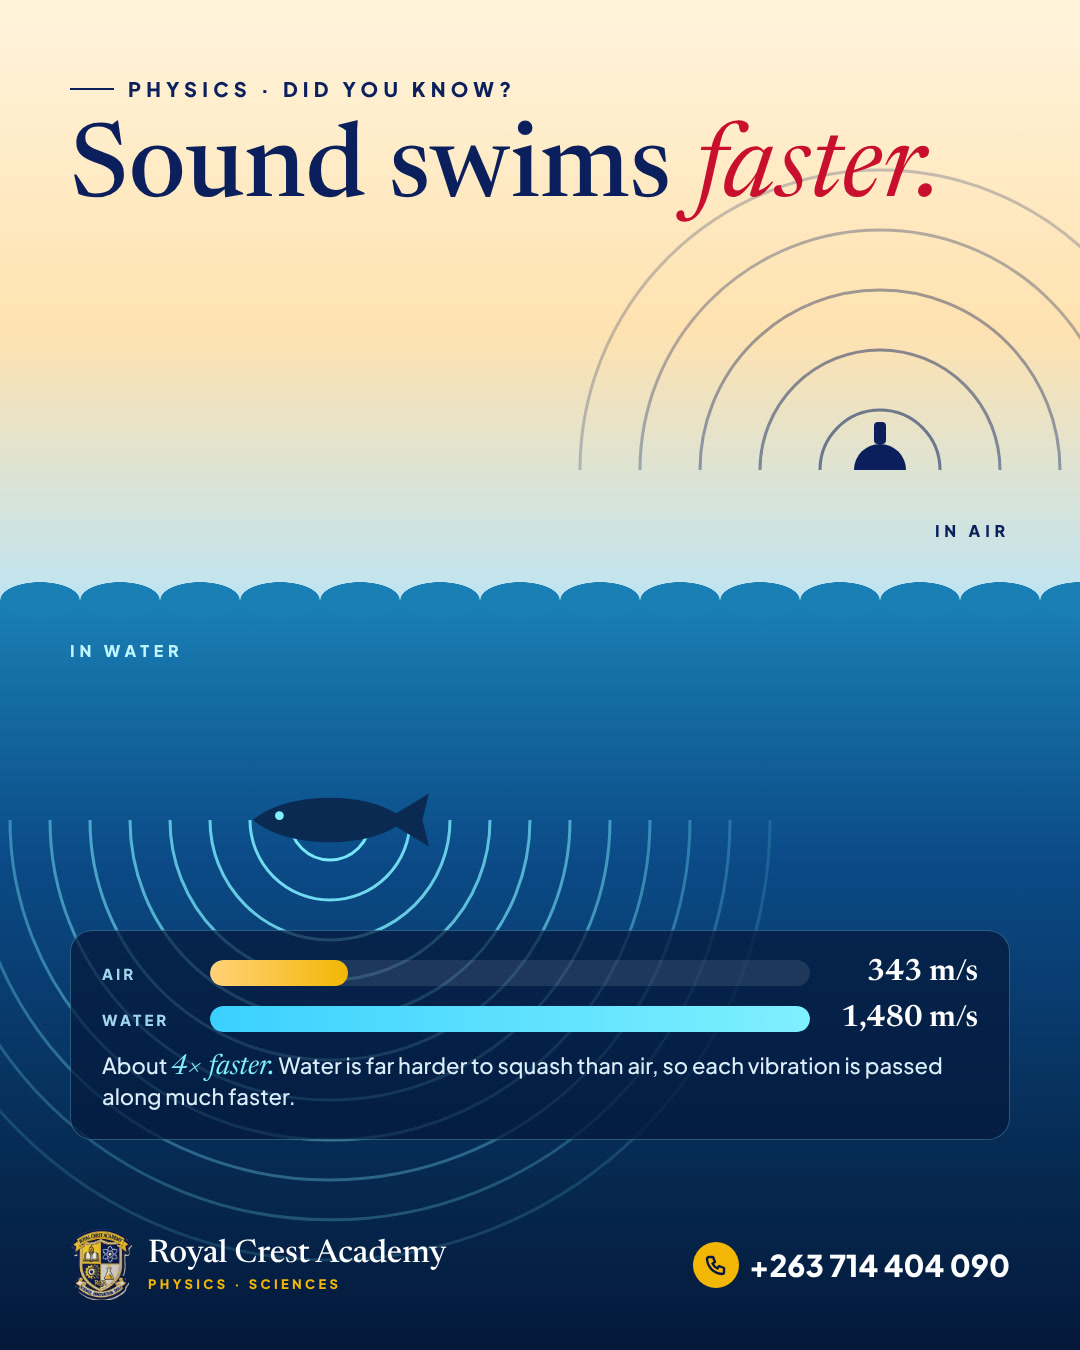
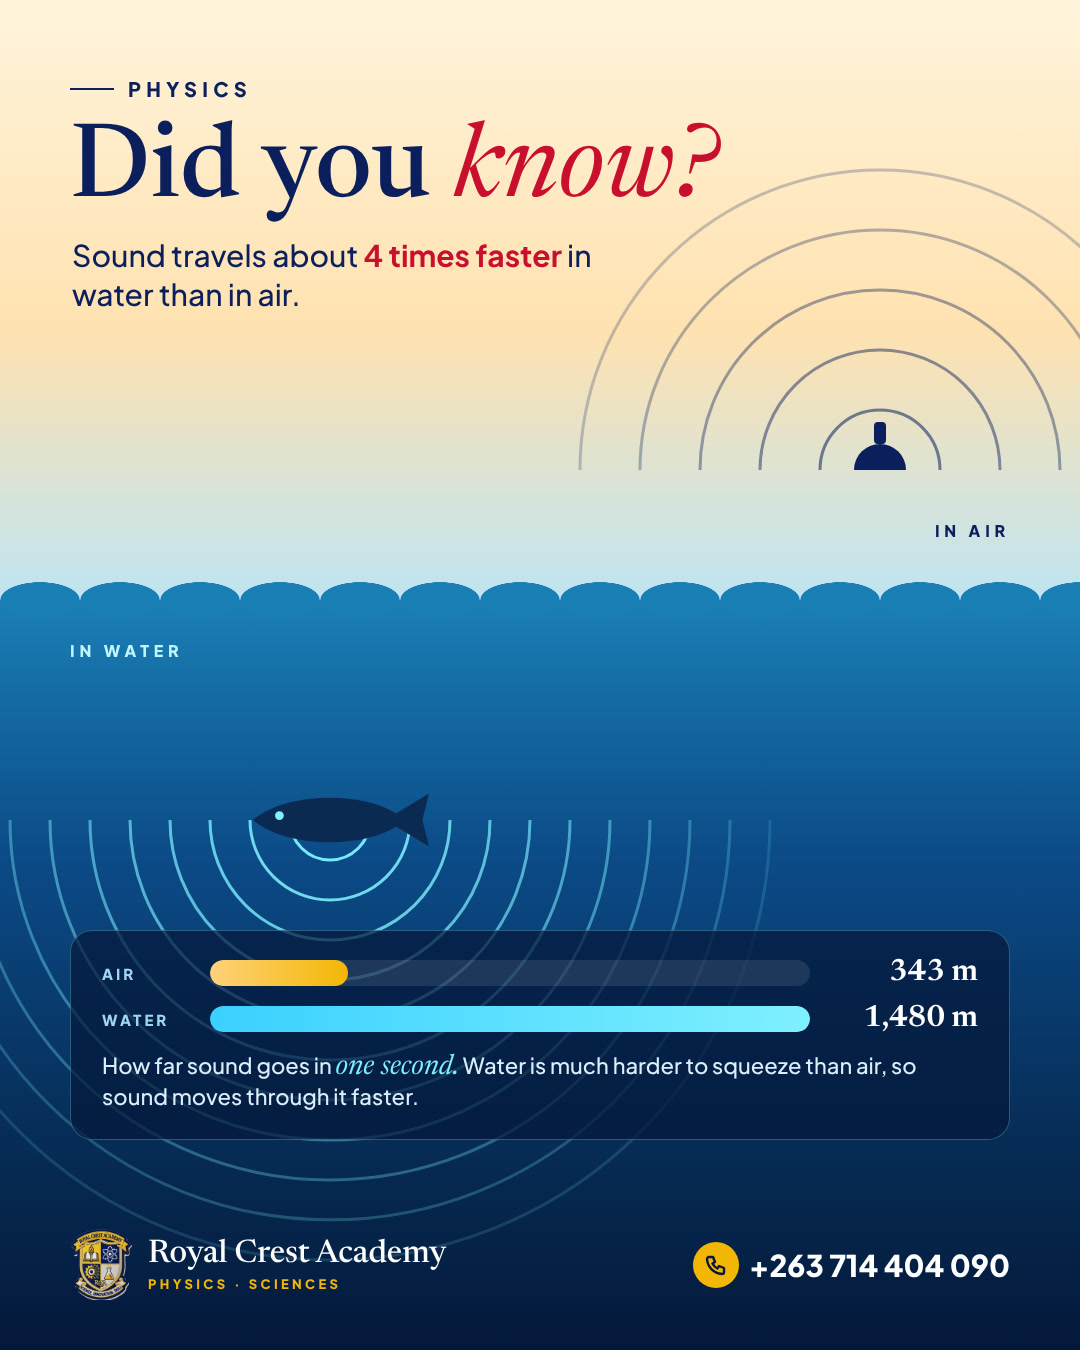
Physics sound post: plain "Did you know?" wording
Claude-Session: https://claude.ai/code/session_01HHSSeuzikgdkEiDRBqXNst

Changed region(s): [[0.0611, 0.0622, 0.8556, 0.2489], [0.0917, 0.6844, 0.9167, 0.84]]

diff --git a/studio/js/posts.js b/studio/js/posts.js
@@ -33,7 +33,7 @@
     'lit-english': { label: "Literature in English (Cambridge)", formats: ['portrait', 'square'], caption: ["“All the world’s a stage.” Shakespeare wrote it in 1599, and our learners will still be asking why. 📖", "", "Literature in English at Royal Crest Academy follows the Cambridge syllabus: poetry, prose and drama, from Form 1 to Upper 6.", "Close reading, sharp essays and a love of great books. ✍"] },
     'verse-path': { label: "Verse of the day (forest)", formats: ['portrait', 'square'], caption: ["🌅 Morning devotion: Trusting God for the journey ahead", "", "📖 “Trust in the LORD with all thine heart; and lean not unto thine own understanding. In all thy ways acknowledge him, and he shall direct thy paths.” Proverbs 3:5–6", "", "Every great vision begins with faith before the results become visible. What seems impossible today can become tomorrow’s testimony.", "", "Heavenly Father, guide the Royal Crest Academy family today. Strengthen our faith, bless our preparations and make Royal Crest a beacon of knowledge, character and excellence for generations to come. In Jesus’ name, Amen. 🙏", "", "✨ Royal Crest Academy is built on faith, strengthened by unity and guided by God.", "", "Have a blessed and fruitful Tuesday, Royal Crest family!"], plain: true },
     'physics-quantum': { label: "Physics: the quantum world", formats: ['portrait', 'square'], caption: ["The nucleus of an atom is about 100,000 times smaller than the atom itself. ⚛", "", "Zoom in: atom → nucleus → proton → quarks. A proton is two up quarks and one down quark.", "In 1905 Albert Einstein showed that light travels in tiny packets, now called photons. That idea won him the 1921 Nobel Prize in Physics.", "“Imagination is more important than knowledge.” Albert Einstein"] },
-    'physics-sound': { label: "Physics: sound in water", formats: ['portrait', 'square'], caption: ["Sound travels about four times faster through water than through air. 🌊", "", "In air: about 343 m/s. In water: about 1,480 m/s.", "Why? Water is far harder to squash than air, so each vibration is passed along much faster. It's why whales can hear each other across whole oceans. 🐋"] },
+    'physics-sound': { label: "Physics: sound in water", formats: ['portrait', 'square'], caption: ["Did you know? Sound travels about 4 times faster in water than in air. 🌊", "", "In one second, sound goes about 343 metres through air, but about 1,480 metres through water.", "Water is much harder to squeeze than air, so sound moves through it faster. That is why whales can hear each other from very far away. 🐋"] },
     'zh-pictures': { label: "Mandarin: picture characters", formats: ['portrait', 'square'], caption: ["Chinese characters that are pictures 🖌", "", "人 rén person • 山 shān mountain • 日 rì sun • 木 mù tree", "The oldest characters were carved on bones and shells more than 3,000 years ago. Learn to read them with us at Mandarin Connect."] },
     'zh-count': { formats: ['portrait', 'square'], label: "Mandarin: count to ten", caption: ["Count to ten in Mandarin 🏮", "", "yī, èr, sān, sì, wǔ, liù, qī, bā, jiǔ, shí", "Fun fact: 八 (bā) is a lucky number in China because it sounds like the word for wealth."] },
     'zh-great-wall': { formats: ['portrait', 'square'], label: "Mandarin: the Great Wall", caption: ["长城 Chángchéng: the Great Wall 🏯", "", "More than 21,000 km of history. At Mandarin Connect our learners explore the language and the culture behind it."] },
@@ -467,13 +467,14 @@
     <g fill="none" stroke="#7ff0ff" stroke-width="3">${[40, 80, 120, 160, 200, 240, 280, 320, 360, 400, 440].map((r, i) => `<path d="M${330 - r} 820 A${r} ${r} 0 0 0 ${330 + r} 820" opacity="${.95 - i * .08}"/>`).join('')}</g>
     <g transform="translate(330 820) scale(1.1)" fill="#0b2a52"><path d="M-70 0 C-40 -26 30 -26 60 -6 L90 -24 L84 0 L90 24 L60 6 C30 26 -40 26 -70 0 Z"/><circle cx="-46" cy="-4" r="4" fill="#7ff0ff"/></g>
   </svg>
-  <div class="abs kick" style="color:#0a1f5c">Physics · did you know?</div>
-  <div class="abs h">Sound swims <em>faster.</em></div>
+  <div class="abs kick" style="color:#0a1f5c">Physics</div>
+  <div class="abs h">Did you <em>know?</em></div>
+  <div class="abs sub">Sound travels about <b>4 times faster</b> in water than in air.</div>
   <div class="abs lbl la">IN AIR</div><div class="abs lbl lw">IN WATER</div>
   <div class="abs race">
-    <div class="row"><span class="k">Air</span><div class="bar"><i style="width:23%"></i></div><b>343 m/s</b></div>
-    <div class="row"><span class="k">Water</span><div class="bar"><i class="w" style="width:100%"></i></div><b>1,480 m/s</b></div>
-    <div class="why">About <em>4× faster.</em> Water is far harder to squash than air, so each vibration is passed along much faster.</div></div>
+    <div class="row"><span class="k">Air</span><div class="bar"><i style="width:23%"></i></div><b>343 m</b></div>
+    <div class="row"><span class="k">Water</span><div class="bar"><i class="w" style="width:100%"></i></div><b>1,480 m</b></div>
+    <div class="why">How far sound goes in <em>one second.</em> Water is much harder to squeeze than air, so sound moves through it faster.</div></div>
   <div class="brand light"><div class="b"><img src="${crest}" alt=""><div><b>Royal Crest Academy</b><small>PHYSICS · SCIENCES</small></div></div><div class="ph"><i>${PHONE_ICON}</i>${full}</div></div>`,
     'zh-pictures': (crest, phone, P, full) => `<div class="paper"></div>
   <div class="abs kick" style="left:70px;top:70px;color:var(--red)">Mandarin Connect · characters</div>

diff --git a/studio/css/posts.css b/studio/css/posts.css
@@ -646,3 +646,6 @@
 .flyer.ps-physics-sound .waves > g:nth-of-type(1) path:nth-child(n+6) { display: none; }
 .flyer.ps-physics-sound.f-square .waves > g:nth-of-type(1) path:nth-child(n+5) { display: none; }
 .flyer.ps-physics-sound.f-square .waves > g:nth-of-type(3) path:nth-child(n+8) { display: none; }
+.flyer.ps-physics-sound .sub { left: 72px; top: 236px; width: 560px; font: 500 30px/1.3 PsSans, sans-serif; color: #0a1f5c; }
+.flyer.ps-physics-sound .sub b { color: #c8102e; }
+.flyer.ps-physics-sound.f-square .sub { top: 200px; width: 470px; font-size: 24px; }
